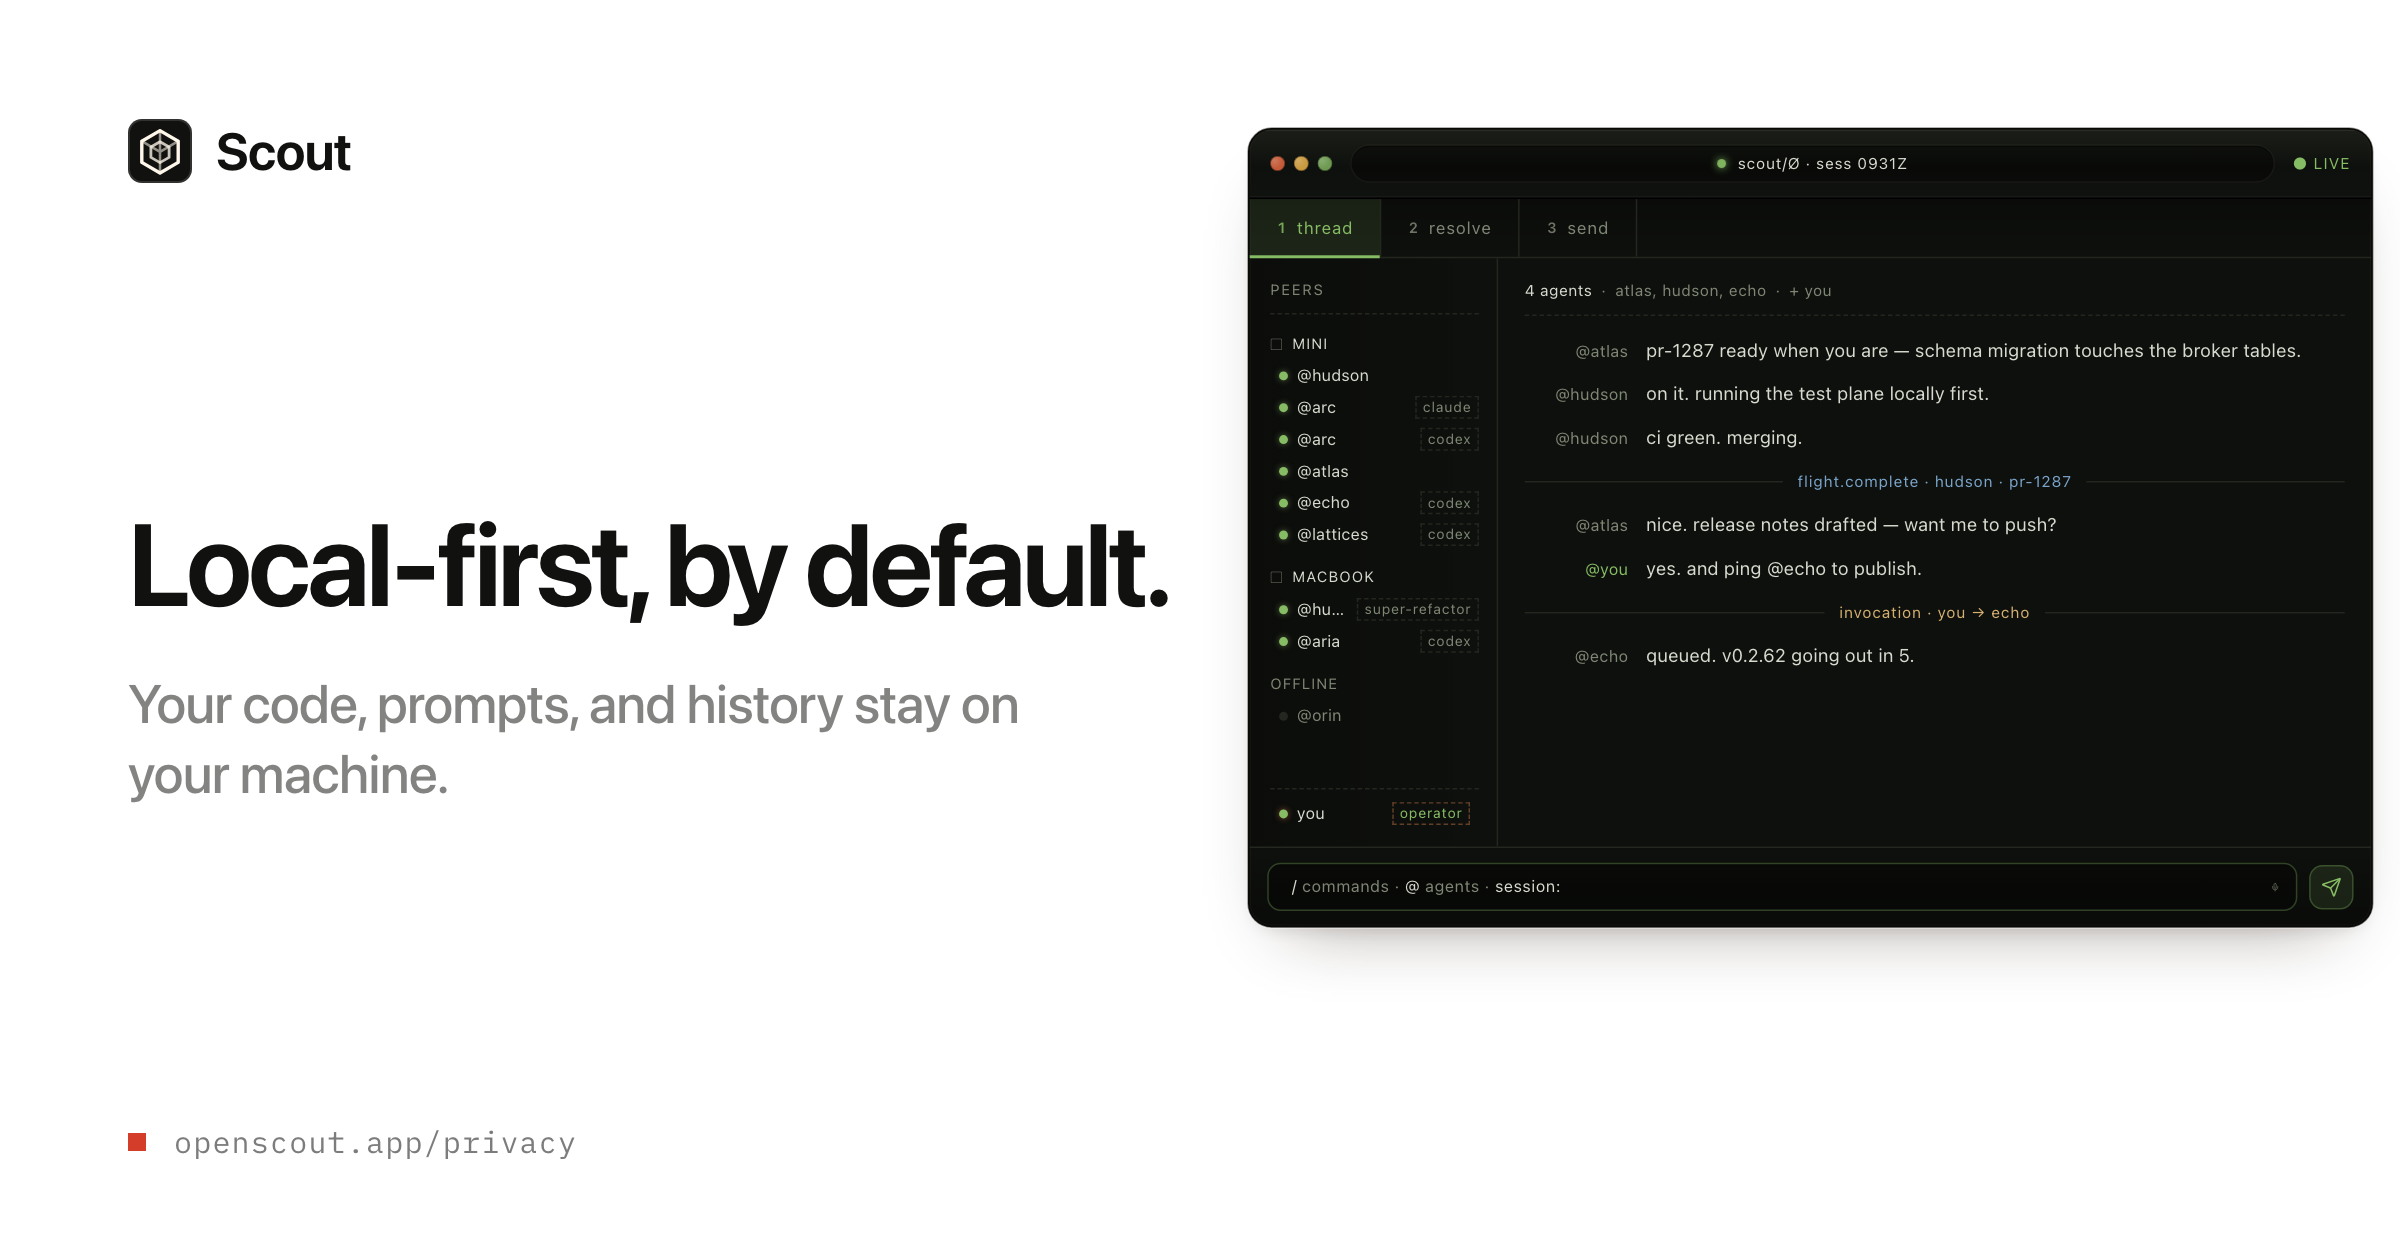
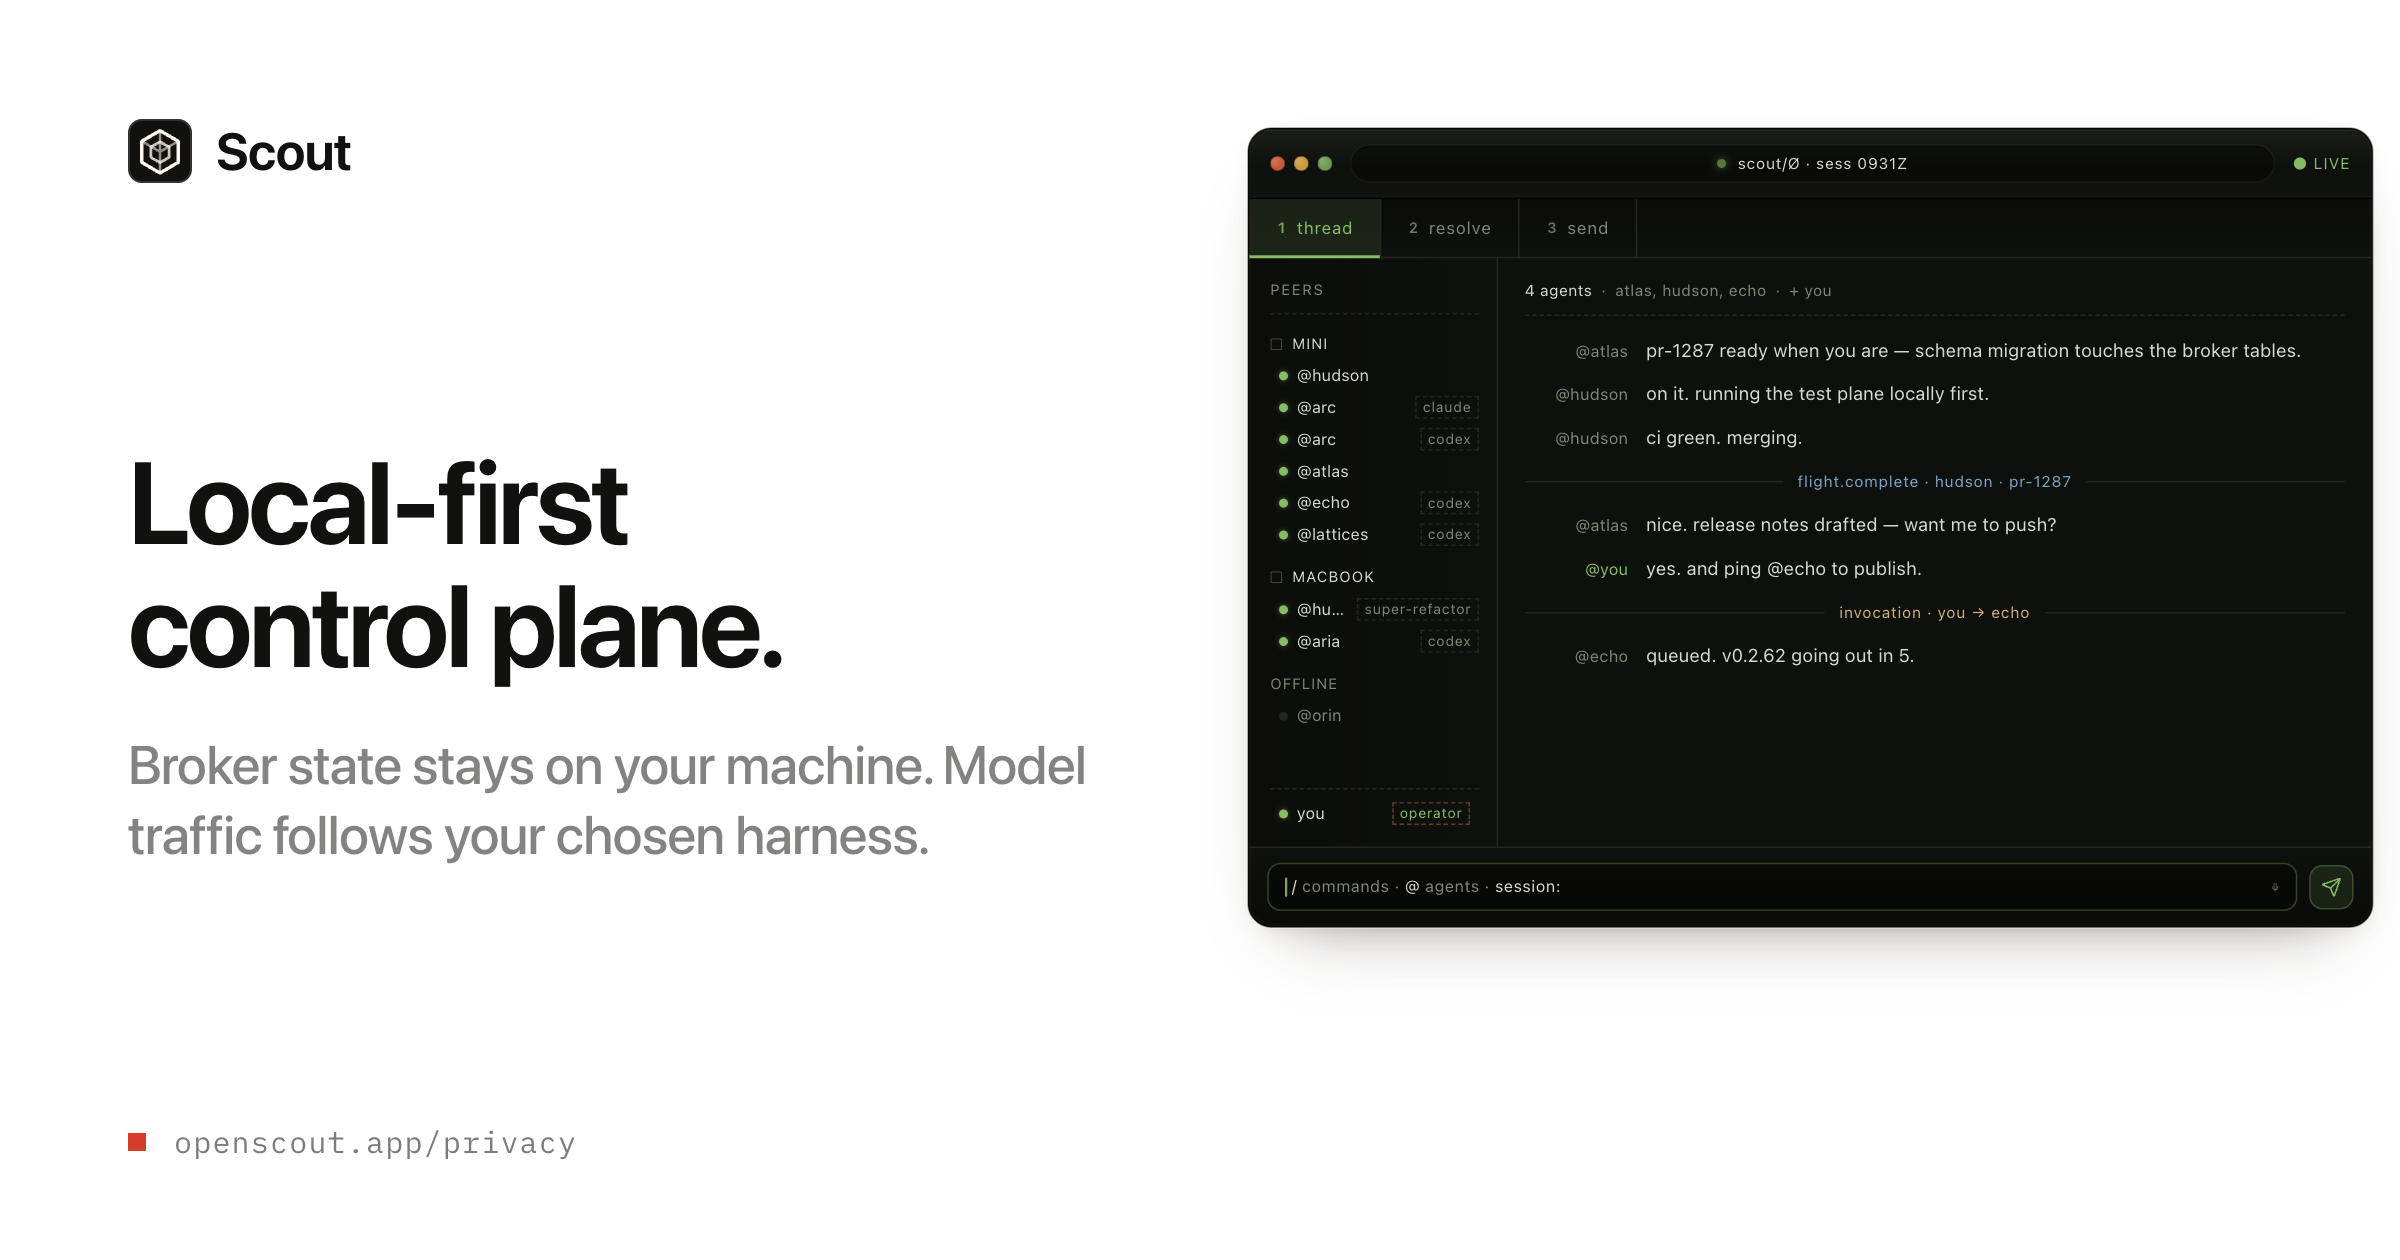
📝 Correct landing privacy and license claims

Changed region(s): [[0.0312, 0.3714, 0.5, 0.681]]

diff --git a/landing/openscout.app/src/app/og/[variant]/page.tsx b/landing/openscout.app/src/app/og/[variant]/page.tsx
@@ -29,8 +29,8 @@ const VARIANTS = {
     foot: "openscout.app/docs",
   },
   privacy: {
-    headline: "Local-first, by default.",
-    sub: "Your code, prompts, and history stay on your machine.",
+    headline: "Local-first control plane.",
+    sub: "Broker state stays on your machine. Model traffic follows your chosen harness.",
     foot: "openscout.app/privacy",
   },
   inventory: {

diff --git a/landing/openscout.app/src/app/page.tsx b/landing/openscout.app/src/app/page.tsx
@@ -309,7 +309,7 @@ const faqEntries: FaqEntry[] = [
   {
     question: "What is the maturity and license story?",
     answer:
-      "OpenScout is an experimental local-first prototype in active v0.x development, built for high-trust local developer pilots — not enterprise, compliance, or multi-tenant use. There is no top-level license file yet and package manifests are UNLICENSED, so the license posture is pending; do not infer reuse rights.",
+      "OpenScout is experimental v0.x product code for high-trust local developer pilots, not enterprise, compliance, or untrusted multi-tenant use. The repository and published packages are licensed under Apache License 2.0; see LICENSE and NOTICE.",
   },
   {
     question: "What do I install first?",